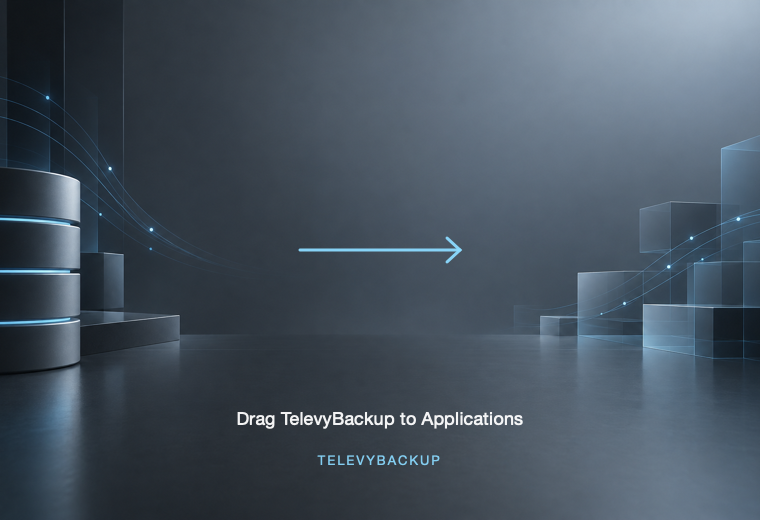
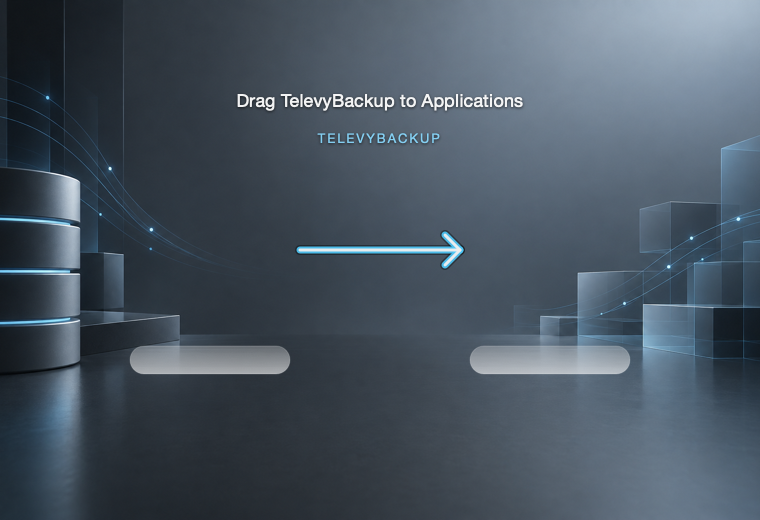
fix(macos): refine guided DMG visual layout

diff --git a/scripts/macos/generate-dmg-overlay.swift b/scripts/macos/generate-dmg-overlay.swift
@@ -51,12 +51,20 @@ if let backgroundURL, let background = NSImage(contentsOf: backgroundURL) {
 
 let titleFont = NSFont(name: "Helvetica Neue", size: 18) ?? NSFont.systemFont(ofSize: 18)
 let brandFont = NSFont(name: "Helvetica Neue", size: 13) ?? NSFont.systemFont(ofSize: 13)
+let textShadow: NSShadow = {
+    let shadow = NSShadow()
+    shadow.shadowColor = NSColor(calibratedWhite: 0.0, alpha: 0.72)
+    shadow.shadowBlurRadius = 3
+    shadow.shadowOffset = NSSize(width: 0, height: -1)
+    return shadow
+}()
 let title = NSAttributedString(
     string: "Drag TelevyBackup to Applications",
     attributes: [
         .font: titleFont,
         .foregroundColor: NSColor(calibratedWhite: 1.0, alpha: 0.94),
         .kern: 0.2,
+        .shadow: textShadow,
     ]
 )
 let brand = NSAttributedString(
@@ -65,29 +73,53 @@ let brand = NSAttributedString(
         .font: brandFont,
         .foregroundColor: NSColor(calibratedRed: 0.48, green: 0.82, blue: 1.0, alpha: 0.92),
         .kern: 2.0,
+        .shadow: textShadow,
     ]
 )
 
-let titleRect = NSRect(x: 380 - title.size().width / 2, y: 91, width: title.size().width, height: title.size().height)
+func drawLabelBackplate(center: NSPoint) {
+    let plate = NSRect(x: center.x - 80, y: center.y - 14, width: 160, height: 28)
+    let path = NSBezierPath(roundedRect: plate, xRadius: 14, yRadius: 14)
+    let gradient = NSGradient(colors: [
+        NSColor(calibratedWhite: 1.0, alpha: 0.60),
+        NSColor(calibratedWhite: 0.94, alpha: 0.28),
+    ])
+    gradient?.draw(in: path, angle: 90)
+    NSColor(calibratedWhite: 1.0, alpha: 0.18).setStroke()
+    path.lineWidth = 1
+    path.stroke()
+}
+
+drawLabelBackplate(center: NSPoint(x: 210, y: 160))
+drawLabelBackplate(center: NSPoint(x: 550, y: 160))
+
+let titleRect = NSRect(x: 380 - title.size().width / 2, y: 420 - title.size().height / 2, width: title.size().width, height: title.size().height)
 title.draw(in: titleRect)
-let brandRect = NSRect(x: 380 - brand.size().width / 2, y: 52, width: brand.size().width, height: brand.size().height)
+let brandRect = NSRect(x: 380 - brand.size().width / 2, y: 382 - brand.size().height / 2, width: brand.size().width, height: brand.size().height)
 brand.draw(in: brandRect)
 
-let arrow = NSBezierPath()
-arrow.lineWidth = 3
-arrow.lineCapStyle = .round
-arrow.move(to: NSPoint(x: 300, y: 270))
-arrow.line(to: NSPoint(x: 460, y: 270))
-NSColor(calibratedRed: 0.48, green: 0.82, blue: 1.0, alpha: 0.95).setStroke()
-arrow.stroke()
+func drawArrow(lineWidth: CGFloat, color: NSColor) {
+    let shaft = NSBezierPath()
+    shaft.lineWidth = lineWidth
+    shaft.lineCapStyle = .round
+    shaft.move(to: NSPoint(x: 300, y: 270))
+    shaft.line(to: NSPoint(x: 460, y: 270))
+    color.setStroke()
+    shaft.stroke()
 
-let head = NSBezierPath()
-head.lineWidth = 3
-head.lineCapStyle = .round
-head.move(to: NSPoint(x: 447, y: 282))
-head.line(to: NSPoint(x: 460, y: 270))
-head.line(to: NSPoint(x: 447, y: 258))
-head.stroke()
+    let head = NSBezierPath()
+    head.lineWidth = lineWidth
+    head.lineCapStyle = .round
+    head.lineJoinStyle = .round
+    head.move(to: NSPoint(x: 445, y: 285))
+    head.line(to: NSPoint(x: 460, y: 270))
+    head.line(to: NSPoint(x: 445, y: 255))
+    head.stroke()
+}
+
+drawArrow(lineWidth: 10, color: NSColor(calibratedWhite: 0.0, alpha: 0.38))
+drawArrow(lineWidth: 7, color: NSColor(calibratedRed: 0.26, green: 0.73, blue: 0.96, alpha: 0.92))
+drawArrow(lineWidth: 3, color: NSColor(calibratedWhite: 0.92, alpha: 0.96))
 
 NSGraphicsContext.restoreGraphicsState()
 
